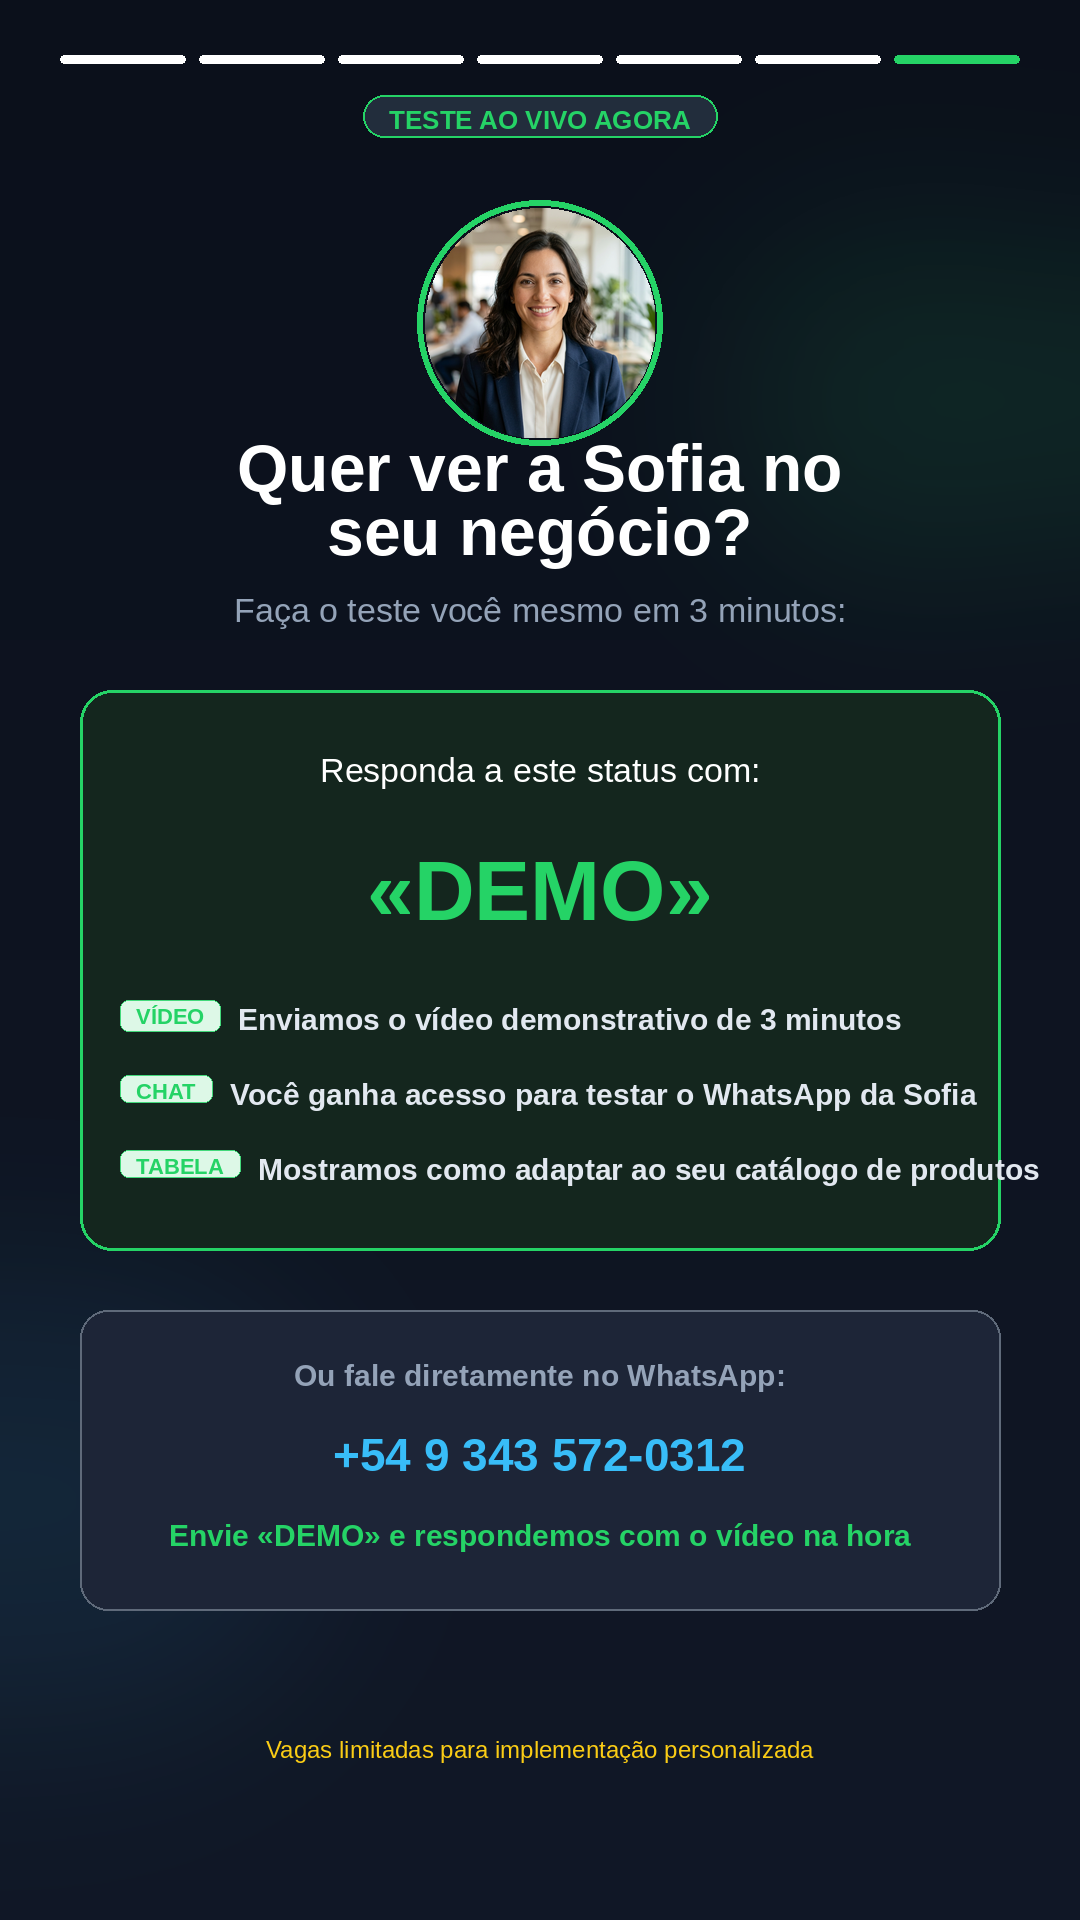
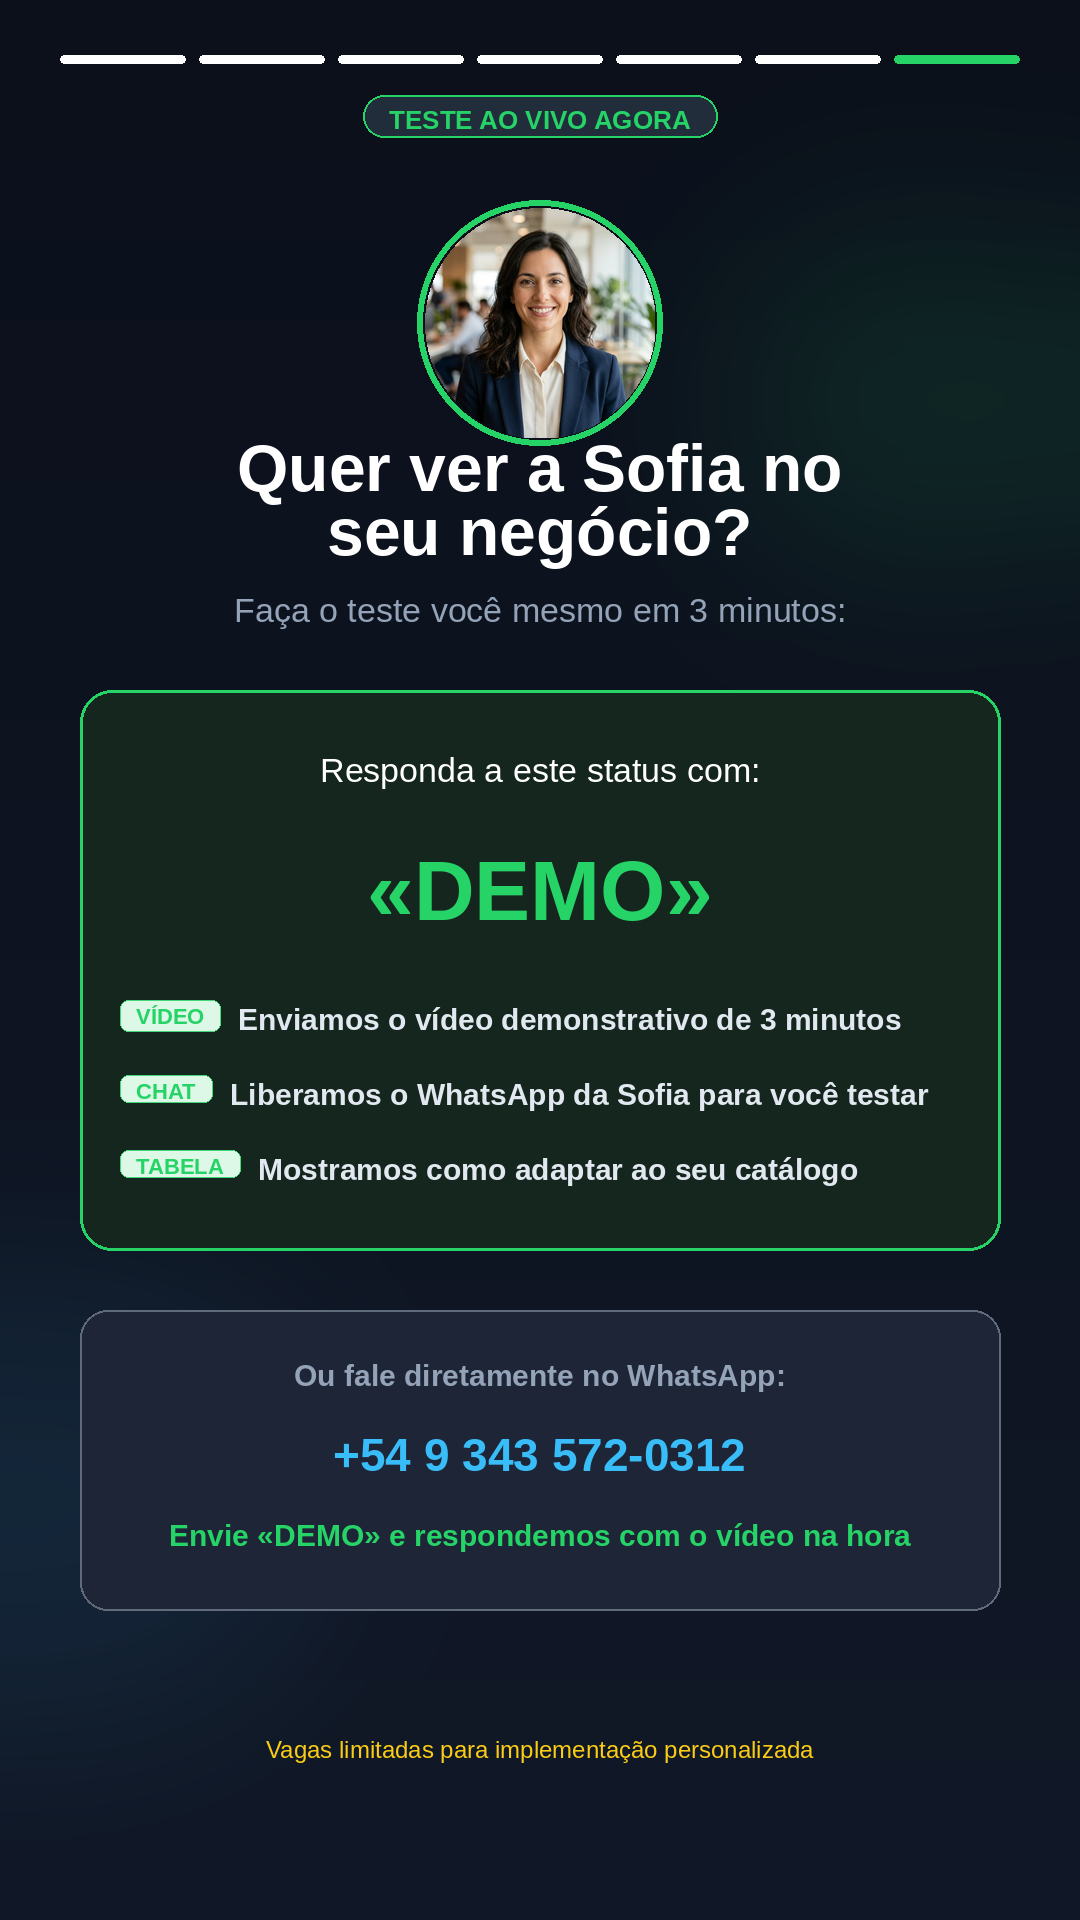
fix(slides-pt): corregir desborde de texto en slide 7 (recuadro DEMO)

Changed region(s): [[0.2139, 0.5625, 0.9472, 0.625]]

diff --git a/assets/generate_social_slides_pt.py b/assets/generate_social_slides_pt.py
@@ -315,8 +315,8 @@ def build_slide_6():
     
     perks = [
         ("VÍDEO", "Enviamos o vídeo demonstrativo de 3 minutos"),
-        ("CHAT", "Você ganha acesso para testar o WhatsApp da Sofia"),
-        ("TABELA", "Mostramos como adaptar ao seu catálogo de produtos")
+        ("CHAT", "Liberamos o WhatsApp da Sofia para você testar"),
+        ("TABELA", "Mostramos como adaptar ao seu catálogo")
     ]
     y = 1000
     for tag, desc in perks:
